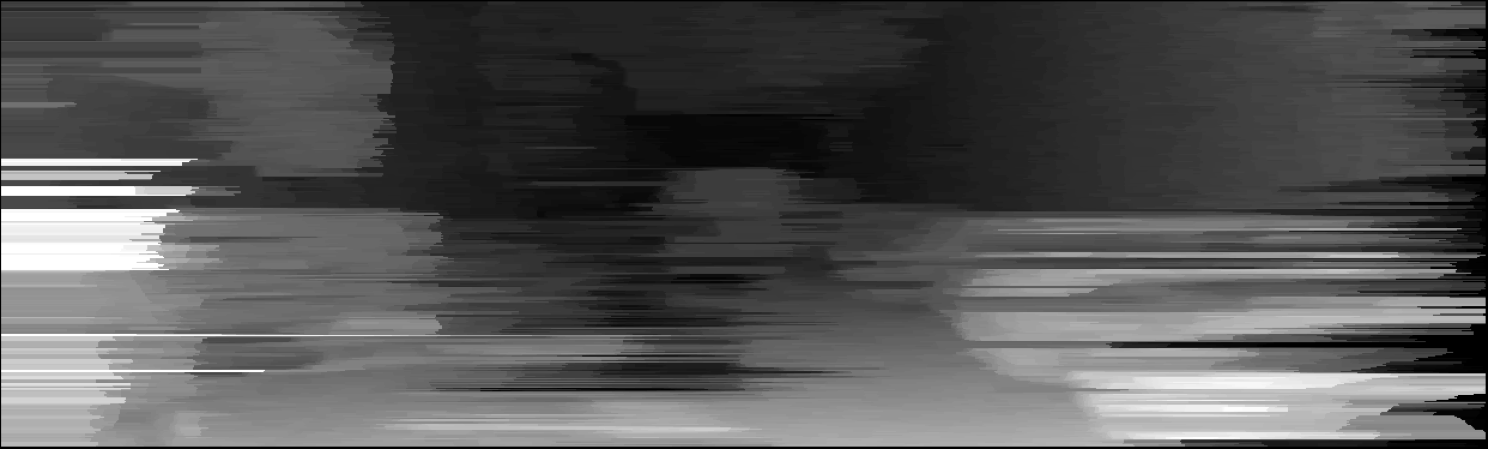
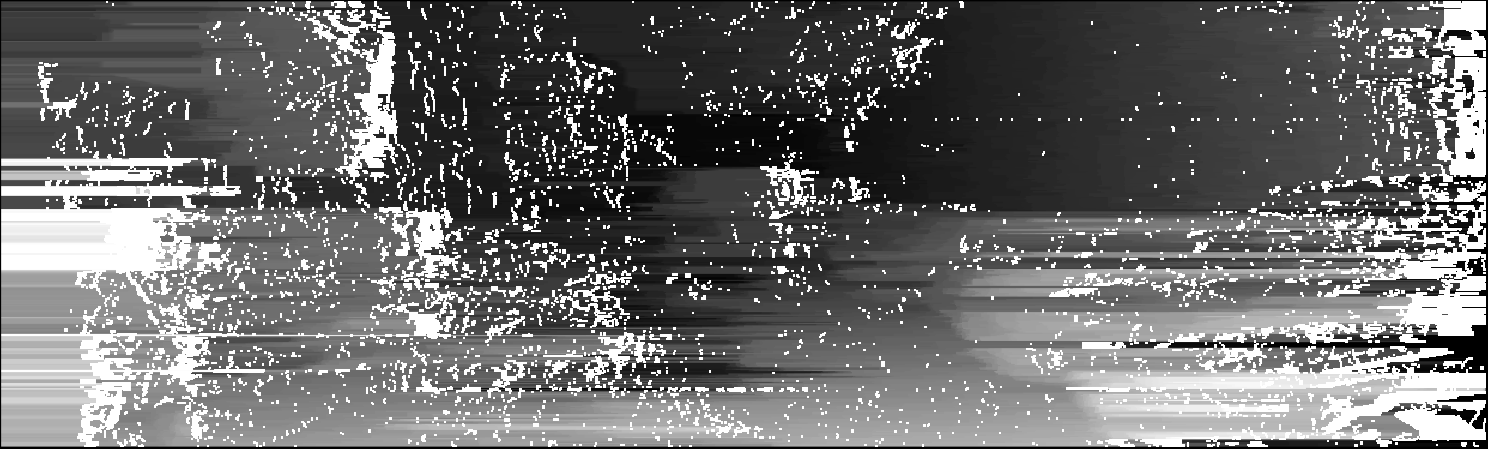
thursday

diff --git a/Stereo/Main_Pipeline.py b/Stereo/Main_Pipeline.py
@@ -29,8 +29,9 @@ class StereoPipeline:
                  disparity_computation,
                  disparity_refinement,
                  max_disparity=16,
+                 occlusion=90,
                  dataloader=DataLoader,
-                 datavisualizer=DataVisualizer):
+                 datavisualizer=DataVisualizer,):
         
 
         self.image_name = image_name
@@ -41,7 +42,7 @@ class StereoPipeline:
         self.disparity_refinment = disparity_refinement
         self.datavisualizer=datavisualizer
         self.max_disparity=max_disparity
-        
+        self.occ=occlusion
     def compute_disparity_map(self):
         left_image,right_image=self.dataloader(self.image_name).load_images()
         
@@ -58,14 +59,15 @@ class StereoPipeline:
         return disparity_map
     
     def compute_disparity_with_dp(self):
+        
         left_image,right_image=self.dataloader(self.image_name).load_images()
         disparity_space_image=self.aggregation_function.compute(self.cost_function,left_image, right_image, self.max_disparity)
         log_array(self.image_name+'_disparity_space_image_DP',disparity_space_image)
-        disparity_left , disparity_right=self.disparity_computation.compute_disparity_map(disparity_space_image)
+        disparity_left , disparity_right=self.disparity_computation.compute_disparity_map(disparity_space_image,self.occ,self.max_disparity)
         log_array(self.image_name+'_disparity_left_DP',disparity_left)
         log_array(self.image_name+'_disparity_right_DP',disparity_right)
         print(disparity_left.shape)
-        method_info=self.cost_function.__name__+'_'+self.aggregation_function.name+'_'+self.disparity_computation.strategy+'_'+str(self.max_disparity)
+        method_info=self.cost_function.__name__+'_'+self.aggregation_function.name+'_'+self.disparity_computation.strategy+'_'+str(self.max_disparity)+'_'+ str(self.occ)
         DataVisualizer(self.image_name+'_'+method_info+"_disparity_map",disparity_left,disparity_right).save_array_as_image(side_to_side=False,plot_image=False)
         return disparity_left
     

diff --git a/Stereo/Disparity_computing/disparty_computing.py b/Stereo/Disparity_computing/disparty_computing.py
@@ -26,13 +26,13 @@ class DisparityComputation:
         self.P1,self.P2=0.025,0.5
         
 
-    def compute_disparity_map(self,cost_volume):
+    def compute_disparity_map(self,cost_volume,occ=100,disparity=96):
         if self.strategy == 'winner-takes-all':
             return self.winner_takes_all(cost_volume)
         elif self.strategy == 'semi-global-matching':
             return self.semi_global_matching(cost_volume)
         elif self.strategy == 'dynamic-programming':
-            return self.dynamic_programming(cost_volume)
+            return self.dynamic_programming(cost_volume,occ,disparity)
         elif self.strategy == 'graph-cuts':
             return self.graph_cuts()
         elif self.strategy == 'belief-propagation':
@@ -48,13 +48,11 @@ class DisparityComputation:
         return disparity_map
 
     # @jit(nopython=True,parallel=True)
-    def dynamic_programming(self,cost_volume):
-        '''
-        not tried yet
-        '''
+    def dynamic_programming(self,cost_volume,occ,disparity):
+        
         # Define parameters
         nRow, nCol,_ = cost_volume.shape
-        occ =  100 # Occlusion cost
+    
 
         # Initialize arrays for cost, disparity, and path tracking
         
@@ -73,7 +71,7 @@ class DisparityComputation:
 
             for i in range(1, nCol):
                 for j in range(1, nCol):
-                    if np.abs(i-j)<96:
+                    if np.abs(i-j)<disparity:
                         temp = cost_volume[y,i,np.abs(i - j)]
                         min1 = C[i - 1, j - 1] + temp
                         min2 = C[i - 1, j] + occ
